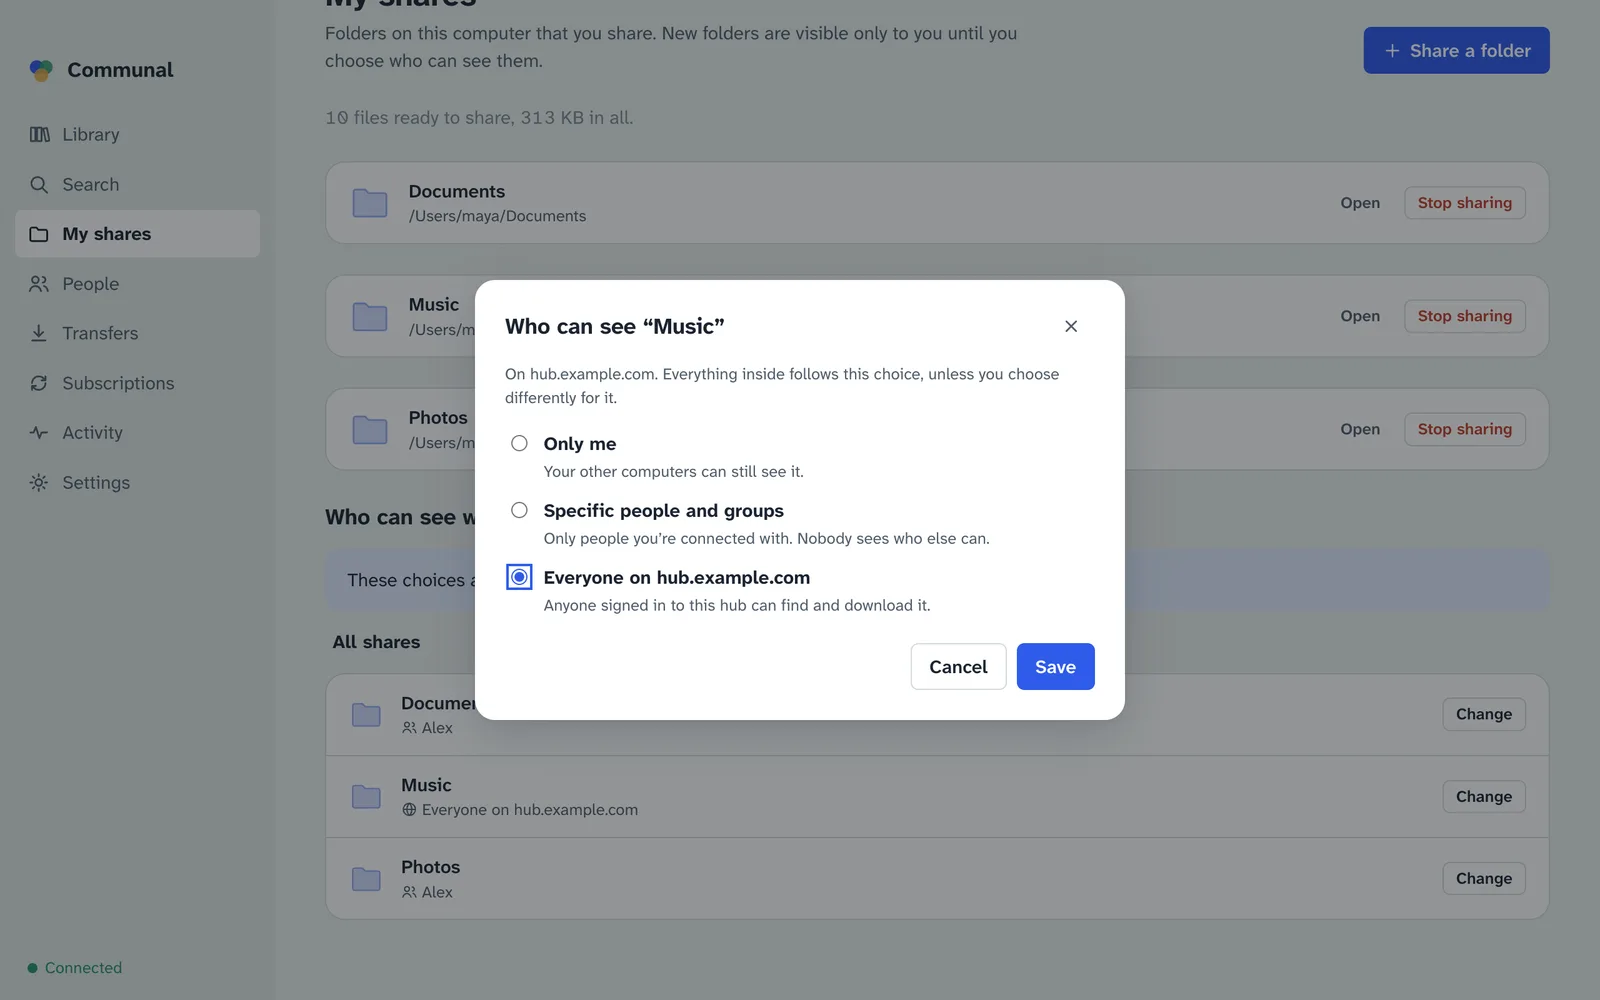
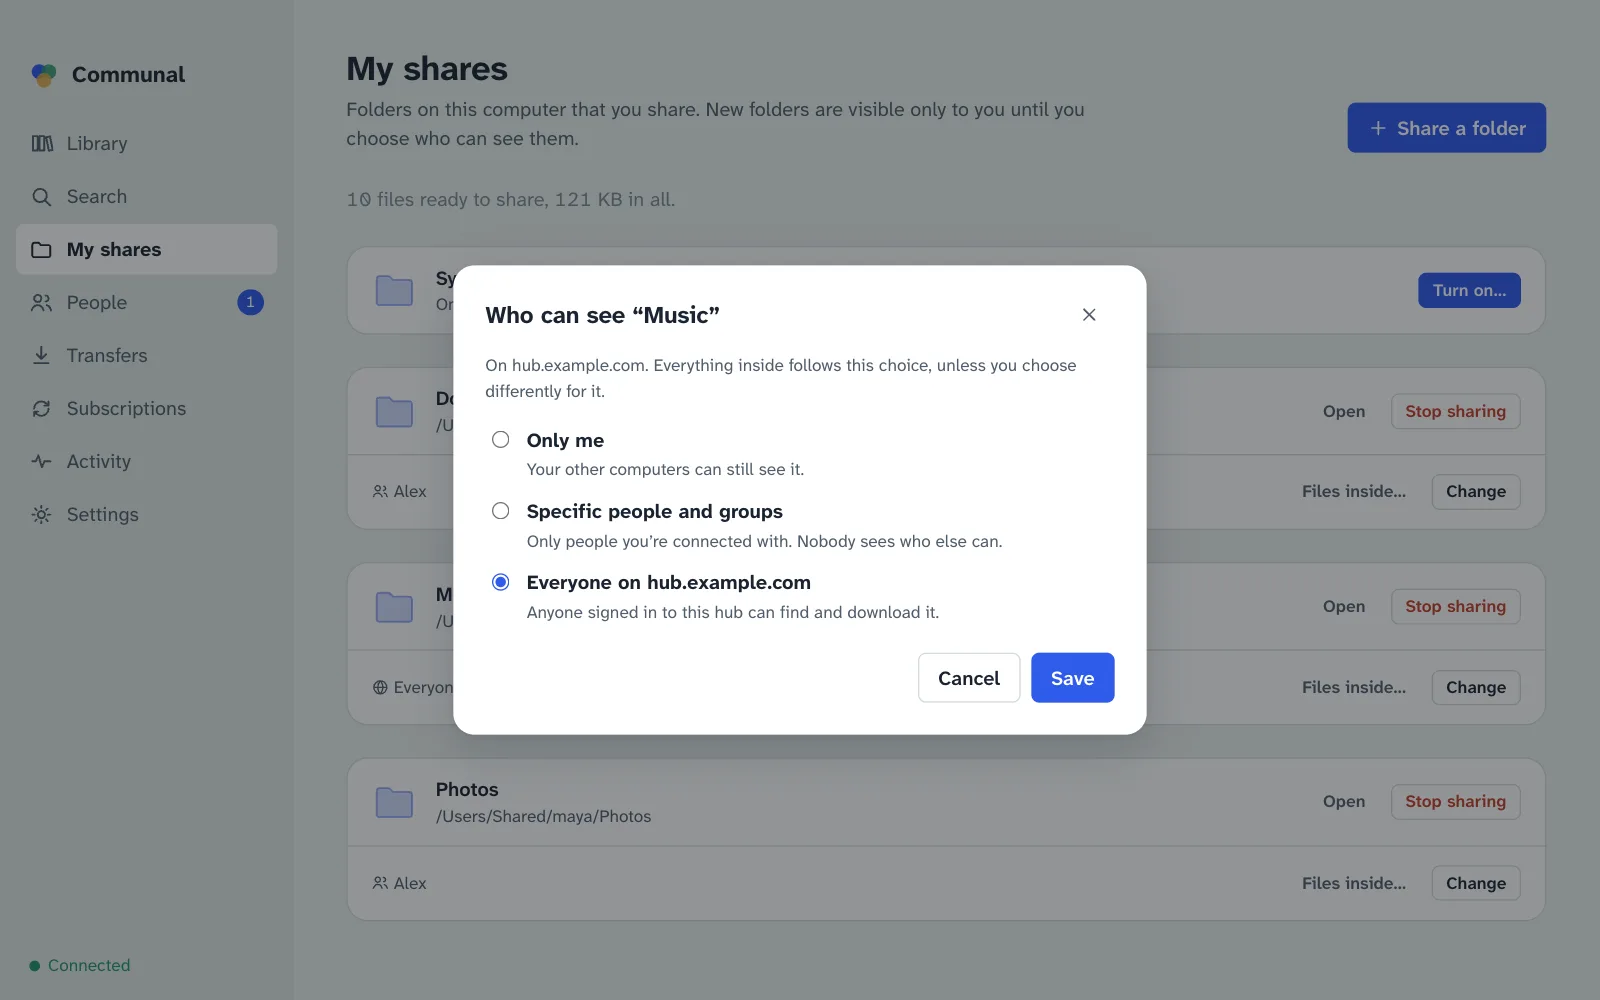
First-computer guidance, fresh site screenshots, version 0.1.6
ADR 0021, item 4: Settings › Account, the recovery words dialog, the
Devices "First computer" tag, `communal recovery export` and the guide now
say to look after the first computer and the recovery key, and to start a
new account if either is stolen. That finishes the "ready to build" list.

Site: shares.webp and access.webp retaken for the 0.1.5 My shares layout;
a new manage.webp (hub admin) in the guide and the hub page. All from
generated demo data.

0.1.6 notes in apps/desktop/changelog.json; every package bumped.

diff --git a/apps/desktop/src/renderer/src/screens/Settings.tsx b/apps/desktop/src/renderer/src/screens/Settings.tsx
@@ -103,11 +103,14 @@ function Account() {
           Keep it somewhere safe and private: whoever has it can use your account.
         </p>
         {a.holds_root_key ? (
-          <div>
-            <button className="btn primary" onClick={() => setExporting(true)}>
-              Save recovery key…
-            </button>
-          </div>
+          <>
+            <div>
+              <button className="btn primary" onClick={() => setExporting(true)}>
+                Save recovery key…
+              </button>
+            </div>
+            <FirstComputerNote />
+          </>
         ) : (
           <div className="notice">
             Only your first computer{first ? ` (${first.name})` : ''} can save the recovery key.
@@ -117,6 +120,20 @@ function Account() {
       </div>
       {exporting && <ExportRecovery onClose={() => setExporting(false)} />}
     </>
+  );
+}
+
+/**
+ * The first computer holds the account root and can't be removed (ADR 0014); losing it or the
+ * recovery key to a thief means starting over (ADR 0021: accepted for v1, so say it plainly).
+ */
+function FirstComputerNote() {
+  return (
+    <div className="notice small">
+      <b>Look after this computer and the recovery key.</b> Your other computers can be removed if
+      they’re lost or stolen, but this one holds your account’s master key and can’t be. If either
+      is ever stolen, start a new account and ask people to connect with you again.
+    </div>
   );
 }
 
@@ -147,7 +164,7 @@ function ExportRecovery({ onClose }: { onClose: () => void }) {
       <Dialog title="Your recovery words" onClose={onClose}>
         <p className="muted">
           Write these down in order and keep them somewhere safe. Anyone with them can use your
-          account.
+          account, and it can’t be taken back from them: you’d have to start a new account.
         </p>
         <ol style={{ columns: 3, margin: 0, paddingLeft: 24, fontWeight: 600, lineHeight: 1.9 }}>
           {words.map((w, i) => (
@@ -328,7 +345,11 @@ function Devices() {
                         </span>
                       )}
                       {d.root && (
-                        <span className="tag" style={{ marginLeft: 8 }}>
+                        <span
+                          className="tag"
+                          style={{ marginLeft: 8 }}
+                          title="Holds your account’s master key, so it can’t be removed. Keep it safe."
+                        >
                           First computer
                         </span>
                       )}

diff --git a/site/guide.html b/site/guide.html
@@ -325,11 +325,18 @@
           down. Keep it somewhere safe and private: whoever has it can use your account. Only the
           first computer you set up (or one you restored) can save it.
         </p>
+        <p>
+          <b>Look after your first computer and your recovery key.</b> Your other computers can be
+          removed if they’re lost or stolen, but the first one holds your account’s master key and
+          can’t be. If your first computer or your recovery key is stolen, start a new account and
+          ask people to connect with you again. A first computer that’s lost or broken is no danger.
+          Your other computers keep working, and the recovery key can set up a new one.
+        </p>
         <h3>Devices</h3>
         <p>
           Your computers. <b>Get a code</b> adds another one. <b>Remove</b> signs a lost or stolen
           computer out of every hub and stops other people’s computers trusting it; it can’t be
-          undone.
+          undone. Your first computer can’t be removed (see Account above).
         </p>
         <h3>Hubs</h3>
         <p>
@@ -343,6 +350,17 @@
           and unban them there. A banner tells you when someone is waiting. Admins see how much each
           computer shares, never file names, groups or who can see what.
         </p>
+        <figure>
+          <img
+            class="shot"
+            src="screenshots/manage.webp"
+            alt="Managing a hub: everyone on it, with one person waiting to be let in"
+            loading="lazy"
+            width="1600"
+            height="1000"
+          />
+        </figure>
+
         <h3>Network</h3>
         <p>
           How easy this computer is to reach, as seen from each hub, and whether your router opened

diff --git a/apps/cli/src/main.ts b/apps/cli/src/main.ts
@@ -1543,7 +1543,8 @@ recovery
     }
     if (opts.words) {
       console.log('Write these words down and keep them somewhere safe. Anyone who has them');
-      console.log('can take over your account.\n');
+      console.log('can take over your account, and it can’t be taken back: you would have to');
+      console.log('start a new account. The same goes for this computer, the first one.\n');
       const words = rootSecretToWords(secret);
       for (let i = 0; i < words.length; i += 6)
         console.log(
@@ -1585,7 +1586,9 @@ recovery
     const rec = await exportRecoveryFile(secret, account.user_id, passphrase, undefined, hubs);
     writeFileSync(out, JSON.stringify(rec, null, 2) + '\n', { mode: 0o600, flag: 'wx' });
     console.log(`Recovery file written to ${out}`);
-    console.log('Keep it and its passphrase safe: together they can take over your account.');
+    console.log('Keep it and its passphrase safe: together they can take over your account,');
+    console.log('and that can’t be undone (you would start a new account). Look after this');
+    console.log('computer too: it holds the account’s master key and can’t be removed.');
   });
 
 type DeviceView = {

diff --git a/site/hub.html b/site/hub.html
@@ -138,6 +138,17 @@ sudo runuser -u communal-hub -- env COMMUNAL_HUB_DATA=/var/lib/communal-hub /usr
           can make or remove admins. If someone else joined first, add yourself and remove them.
           <code>log</code> shows every admin action, from the command line or an admin’s app.
         </p>
+        <figure>
+          <img
+            class="shot"
+            src="screenshots/manage.webp"
+            alt="Managing a hub: everyone on it, with one person waiting to be let in"
+            loading="lazy"
+            width="1600"
+            height="1000"
+          />
+        </figure>
+
         <p>
           The <b>name</b> is what people see in the app instead of the hub’s address. Clients pick
           it up the next time they connect.

diff --git a/docs/progress.md b/docs/progress.md
@@ -29,10 +29,6 @@ These need a person or hardware that CI doesn't have.
 - **Show the access preview in the app.** `POST /v1/acl/preview` already says which files would be seen by whom. The audience picker in My shares could show the same thing before saving.
 - **A message to send to the person with the easier fix.** Transfers shows who can fix a failed connection, but there's no ready-made note to send them (M5, HANDOFF §8).
 
-### Decided, ready to build
-
-- **First-device guidance** (ADR 0021): the guide and recovery-key screens say to keep the first computer and the recovery key safe, and to start a new account if either is stolen.
-
 ### Waiting for user feedback
 
 The plan is in `docs/plans/downloads.md`.
@@ -68,6 +64,16 @@ These are fine for now. Fix them if they start to bite.
 
 - **Retention for devices not seen for a long time** (ADR 0015), as a hub setting in Manage (ADR 0020).
 - **From HANDOFF §15:** hubs caching thumbnails of hub-wide files, and mobile clients.
+
+## First-computer guidance (2026-10-13)
+
+- **ADR 0021, item 4.** The first computer can't be removed, so the app now says so plainly:
+  - Settings › Account, under "Save recovery key", tells people to look after this computer and the key, and to start a new account if either is stolen.
+  - The recovery words dialog says a stolen key can't be taken back.
+  - The "First computer" tag in Devices explains itself on hover.
+  - `communal recovery export` prints the same.
+  - The guide has a paragraph on it under Settings › Account and Devices.
+- That finishes the "Decided, ready to build" list.
 
 ## People across hubs, and quitting shows offline at once (2026-10-13)
 

diff --git a/docs/adr/0021-open-questions-2026-10.md b/docs/adr/0021-open-questions-2026-10.md
@@ -48,6 +48,8 @@ Re-shared files starting as "only me", or taking the narrower audience, were rej
 - keep the first computer and the recovery key safe;
 - if either is stolen, start a new account.
 
+Built (2026-10-13): Settings › Account (next to "Save recovery key"), the recovery words dialog, the Devices "First computer" tag, `communal recovery export`, and the guide.
+
 If this is ever fixed, the preferred design is a separate root key that lives only in the recovery file (option 3 in the old question), because every device could then be revoked. Key rotation was rejected because it sets off the "verified key changed" warning for everyone.
 
 ### 5. People on several hubs
